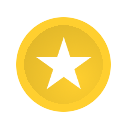
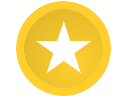
Made tokens same size as the grid cell to stop janky alignment of images

diff --git a/public/css/styles.css b/public/css/styles.css
@@ -39,6 +39,10 @@ a.local-game {
     border-width: 2px 0;
 }
 
+.small-board .board .column:hover {
+    background-color: inherit;
+}
+
 .small-board .token {
     background-size: 105%;
 }
@@ -101,7 +105,8 @@ a.local-game {
     bottom: 0;
     width: 100%;
     height: 100%;
-    background-size: 102%;
+    z-index: 1;
+    background-size: 100% 100%;
     background-position: center center;
     text-align: center;
 }
@@ -202,7 +207,7 @@ a.local-game {
 }
 
 @keyframes example {
-    from { bottom: 300px; }
+    from { top: 500px; }
 }
 
 .new.token {
